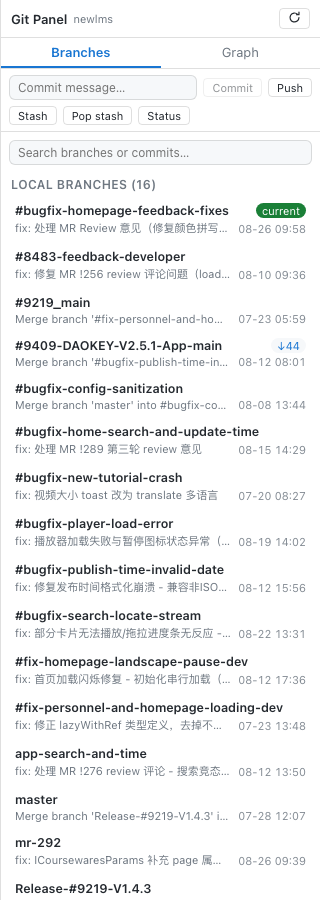
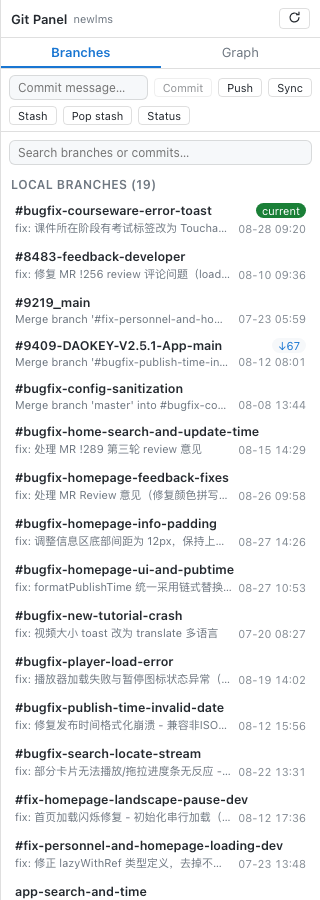
feat: add one-click Sync action and line numbers in diff view
- add one-click Sync button (git pull --rebase and push)
- add line numbers column in diff view
- sync docs in zh/en/es and bump version to 0.1.9

diff --git a/src/client/Panel.tsx b/src/client/Panel.tsx
@@ -105,7 +105,9 @@ const STYLE = `
 .dsh-gp-changes-diff .dsh-gp-changes-head { padding:4px 6px; background:var(--panel-bg); }
 .dsh-gp-changes-pre { max-height:240px; overflow:auto; font-size:11px; font-family:ui-monospace,SFMono-Regular,Menlo,monospace;
   line-height:1.5; padding:4px 0; margin:0; background:var(--bg); }
-.dsh-gp-diff-line { padding:0 6px; white-space:pre-wrap; word-break:break-all; }
+.dsh-gp-diff-line { padding:0 6px; white-space:pre-wrap; word-break:break-all; display:flex; gap:8px; }
+.dsh-gp-diff-line-num { width:28px; text-align:right; color:var(--muted); opacity:0.6; flex:none; user-select:none; font-variant-numeric:tabular-nums; }
+.dsh-gp-diff-line-text { flex:1; min-width:0; }
 .dsh-gp-diff-line.add { background:rgba(46,160,67,0.15); color:var(--current); }
 .dsh-gp-diff-line.del { background:rgba(248,81,73,0.15); color:var(--danger); }
 .dsh-gp-diff-line.hunk { background:rgba(56,139,253,0.15); color:var(--accent); font-weight:600; }
@@ -824,6 +826,8 @@ export function GitPanel(props: { path: string; api: GitPanelApi }): React.React
             onClick={() => void runWrite('commit')}>{t('write.commit')}</button>
           <button className="dsh-gp-btn" disabled={busy}
             onClick={() => void runWrite('push')}>{t('write.push')}</button>
+          <button className="dsh-gp-btn" disabled={busy}
+            onClick={() => void runWrite('sync' as any)}>{t('write.sync')}</button>
         </div>
         <div className="dsh-gp-write-row">
           <button className="dsh-gp-btn" disabled={busy}
@@ -922,20 +926,38 @@ export function GitPanel(props: { path: string; api: GitPanelApi }): React.React
                     <div className="dsh-gp-changes-empty">{t('changes.empty')}</div>
                   ) : (
                     <div className="dsh-gp-changes-pre">
-                      {diffState.content.slice(0, 30000).split('\n').map((line, idx) => {
-                        const kind = line.startsWith('+') && !line.startsWith('+++')
-                          ? 'add'
-                          : line.startsWith('-') && !line.startsWith('---')
-                            ? 'del'
-                            : line.startsWith('@@')
-                              ? 'hunk'
-                              : ''
-                        return (
-                          <div key={idx} className={`dsh-gp-diff-line ${kind}`}>
-                            {line || ' '}
-                          </div>
-                        )
-                      })}
+                      {(() => {
+                        let oldNum = 0
+                        let newNum = 0
+                        return diffState.content.slice(0, 30000).split('\n').map((line, idx) => {
+                          let kind = ''
+                          let numStr = ''
+                          if (line.startsWith('@@')) {
+                            kind = 'hunk'
+                            const m = line.match(/@@ -(\d+)(?:,\d+)? \+(\d+)(?:,\d+)? @@/)
+                            if (m) {
+                              oldNum = parseInt(m[1], 10)
+                              newNum = parseInt(m[2], 10)
+                            }
+                            numStr = '@@'
+                          } else if (line.startsWith('+') && !line.startsWith('+++')) {
+                            kind = 'add'
+                            numStr = String(newNum++)
+                          } else if (line.startsWith('-') && !line.startsWith('---')) {
+                            kind = 'del'
+                            numStr = String(oldNum++)
+                          } else if (line.startsWith(' ') || line === '') {
+                            numStr = String(newNum++)
+                            oldNum++
+                          }
+                          return (
+                            <div key={idx} className={`dsh-gp-diff-line ${kind}`}>
+                              <span className="dsh-gp-diff-line-num">{numStr}</span>
+                              <span className="dsh-gp-diff-line-text">{line || ' '}</span>
+                            </div>
+                          )
+                        })
+                      })()}
                     </div>
                   )}
                 </div>

diff --git a/src/host/git-service.ts b/src/host/git-service.ts
@@ -346,6 +346,21 @@ export class GitService {
     return { ok: true, output: run.stdout.trim() }
   }
 
+  /** 一键同步（git pull --rebase + 有超前则 git push）。 */
+  async sync(path: string): Promise<OpResult> {
+    const canonical = await this.requireWorkspace(path)
+    const pullRun = await this.runner.run(['pull', '--rebase'], canonical)
+    if (pullRun.exitCode !== 0) {
+      return { ok: false, output: pullRun.stdout, error: { code: 'sync-pull-failed', message: pullRun.stderr.trim() || 'git pull --rebase failed' } }
+    }
+    const pushRun = await this.runner.run(['push'], canonical)
+    if (pushRun.exitCode !== 0) {
+      return { ok: false, output: pushRun.stdout, error: { code: 'sync-push-failed', message: pushRun.stderr.trim() || 'git push failed' } }
+    }
+    const out = [pullRun.stdout.trim(), pushRun.stdout.trim()].filter(Boolean).join('\n')
+    return { ok: true, output: out || 'Sync successful' }
+  }
+
   /** 提交全部变更（git add -A + git commit -m）。 */
   async commit(path: string, message: string): Promise<OpResult> {
     const canonical = await this.requireWorkspace(path)

diff --git a/src/client/i18n.ts b/src/client/i18n.ts
@@ -36,6 +36,7 @@ const DICTS: Record<Lang, Dict> = {
     'write.commit': '提交',
     'write.commit.placeholder': '提交信息…',
     'write.push': '推送',
+    'write.sync': '同步',
     'write.stash': '暂存',
     'write.stashPop': '恢复暂存',
     'write.status': '状态',
@@ -102,6 +103,7 @@ const DICTS: Record<Lang, Dict> = {
     'write.commit': 'Commit',
     'write.commit.placeholder': 'Commit message…',
     'write.push': 'Push',
+    'write.sync': 'Sync',
     'write.stash': 'Stash',
     'write.stashPop': 'Pop stash',
     'write.status': 'Status',
@@ -168,6 +170,7 @@ const DICTS: Record<Lang, Dict> = {
     'write.commit': 'Confirmar',
     'write.commit.placeholder': 'Mensaje de commit…',
     'write.push': 'Empujar',
+    'write.sync': 'Sincronizar',
     'write.stash': 'Guardar',
     'write.stashPop': 'Recuperar',
     'write.status': 'Estado',

diff --git a/src/host/routes.ts b/src/host/routes.ts
@@ -146,6 +146,11 @@ function route(service: GitService) {
           json(res, value.ok ? { ok: true, value } : { ok: false, error: value.error ?? BAD_REQUEST })
           return
         }
+        case '/git-panel/sync': {
+          const value = await service.sync(root)
+          json(res, value.ok ? { ok: true, value } : { ok: false, error: value.error ?? BAD_REQUEST })
+          return
+        }
         case '/git-panel/stash-list': {
           const value = await service.stashList(root)
           json(res, value.ok ? { ok: true, value } : { ok: false, error: value.error ?? BAD_REQUEST })

diff --git a/src/client/api.ts b/src/client/api.ts
@@ -105,6 +105,10 @@ export class GitPanelApi {
     return post<OpResult>('/git-panel/push', { path })
   }
 
+  sync(path: string) {
+    return post<OpResult>('/git-panel/sync', { path })
+  }
+
   stashList(path: string) {
     return post<OpResult>('/git-panel/stash-list', { path })
   }
